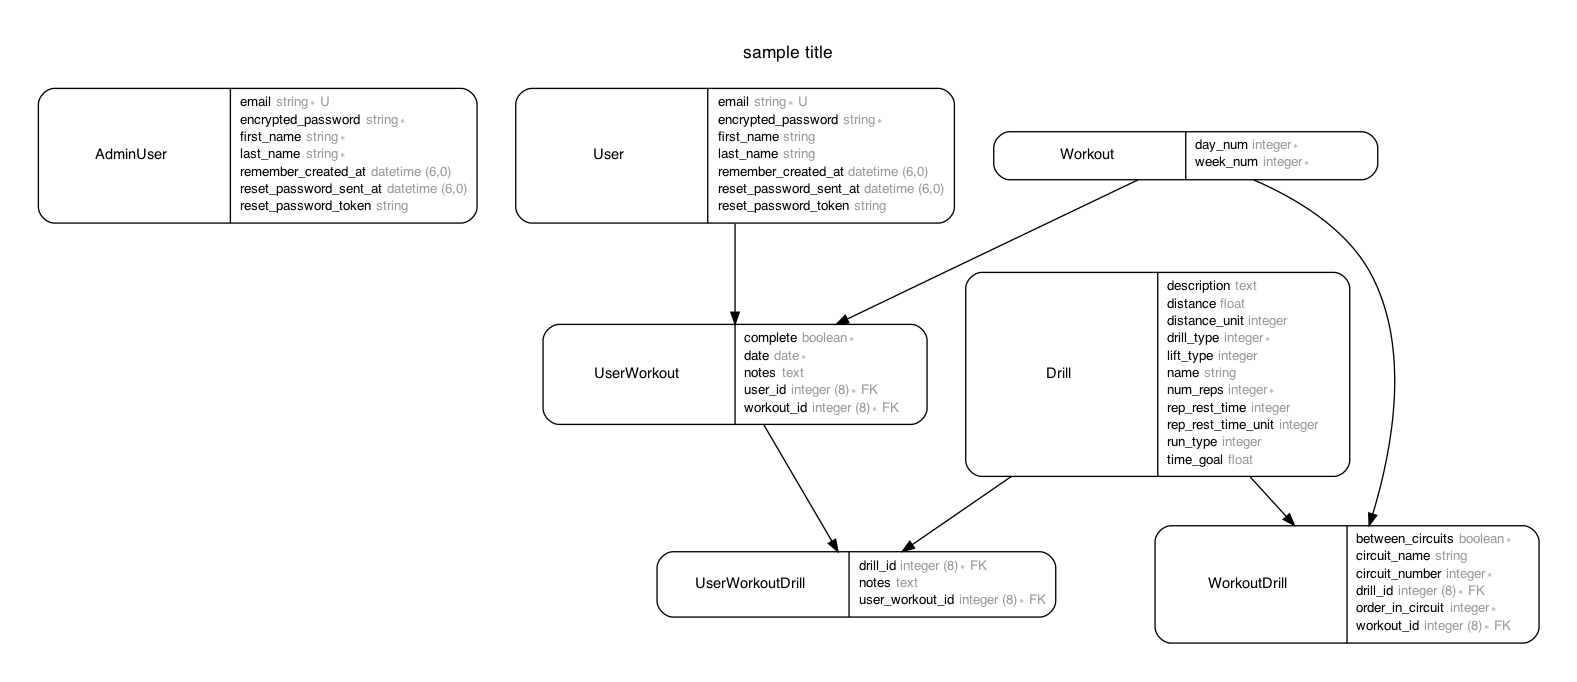
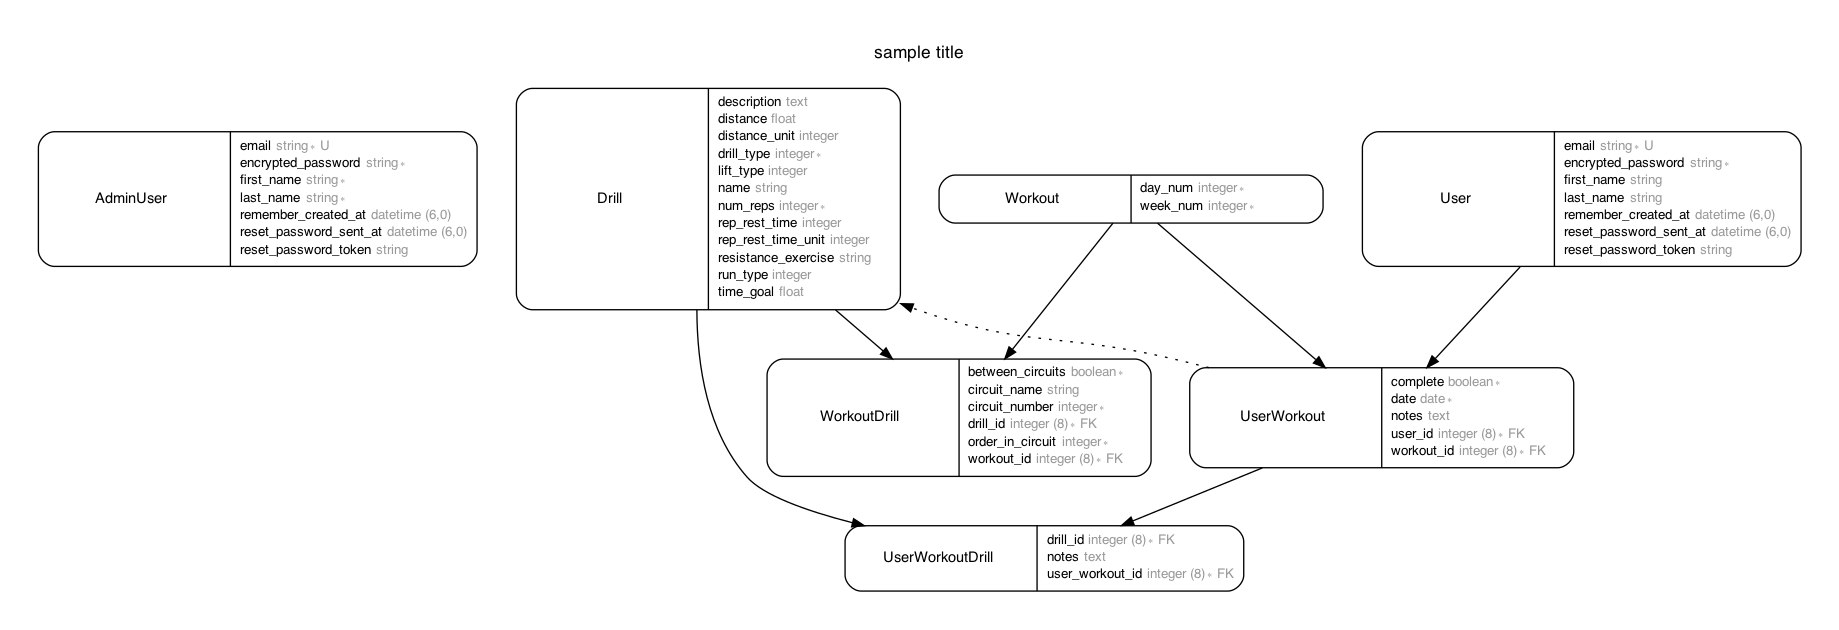
initial views

diff --git a/app/models/drill.rb b/app/models/drill.rb
@@ -38,6 +38,15 @@ class Drill < ApplicationRecord
     minutes: 1,
   }
 
+  def display_exercise
+    # can change to case if make other drill types
+    conditioning? ? display_distance : resistance_exercise
+  end
+
+  def display_distance
+    [distance, distance_unit].join(' ') if distance
+  end
+
   def display_rep_rest
     # can go in view helper
     [rep_rest_time, rep_rest_time_unit].join(' ') if rep_rest_time

diff --git a/app/models/workout.rb b/app/models/workout.rb
@@ -24,6 +24,13 @@ class Workout < ApplicationRecord
   NUM_CONDITIONING_SET_REPS = 1 # do each set once
   NUM_LIFTING_SET_REPS = 3 # do each set 3 times (unless between sets)
 
+  def circuits
+    workout_drills
+      .joins(:drill)
+      .order(:circuit_number, :order_in_circuit)
+      .group_by(&:circuit_number)
+  end
+
   def title
     "Week #{week_num}: #{day_num.titleize}"
   end

diff --git a/db/schema.rb b/db/schema.rb
@@ -37,6 +37,7 @@ ActiveRecord::Schema.define(version: 2021_12_30_010836) do
     t.integer "lift_type"
     t.float "distance"
     t.integer "distance_unit"
+    t.string "resistance_exercise"
     t.integer "rep_rest_time"
     t.integer "rep_rest_time_unit", default: 0
     t.float "time_goal"

diff --git a/db/migrate/20211229200006_create_drills.rb b/db/migrate/20211229200006_create_drills.rb
@@ -8,6 +8,7 @@ class CreateDrills < ActiveRecord::Migration[7.0]
       t.integer :lift_type
       t.float :distance
       t.integer :distance_unit
+      t.string :resistance_exercise
       t.integer :rep_rest_time
       t.integer :rep_rest_time_unit, default: 0
       t.float :time_goal

diff --git a/app/controllers/workouts_controller.rb b/app/controllers/workouts_controller.rb
@@ -1,5 +1,6 @@
 class WorkoutsController < ApplicationController
   def show
     @workout = Workout.find(params[:id])
+    @circuits = @workout.circuits
   end
 end
